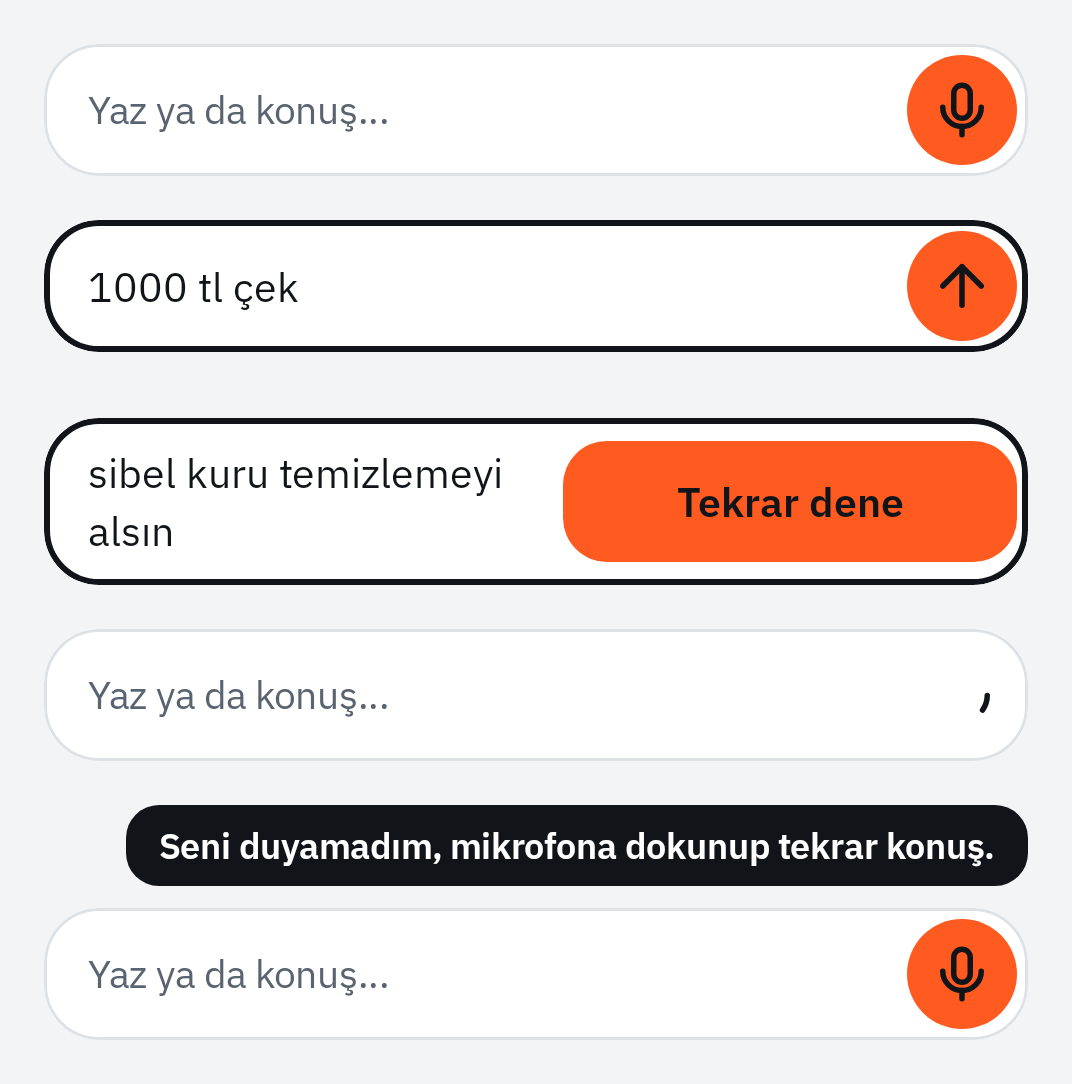
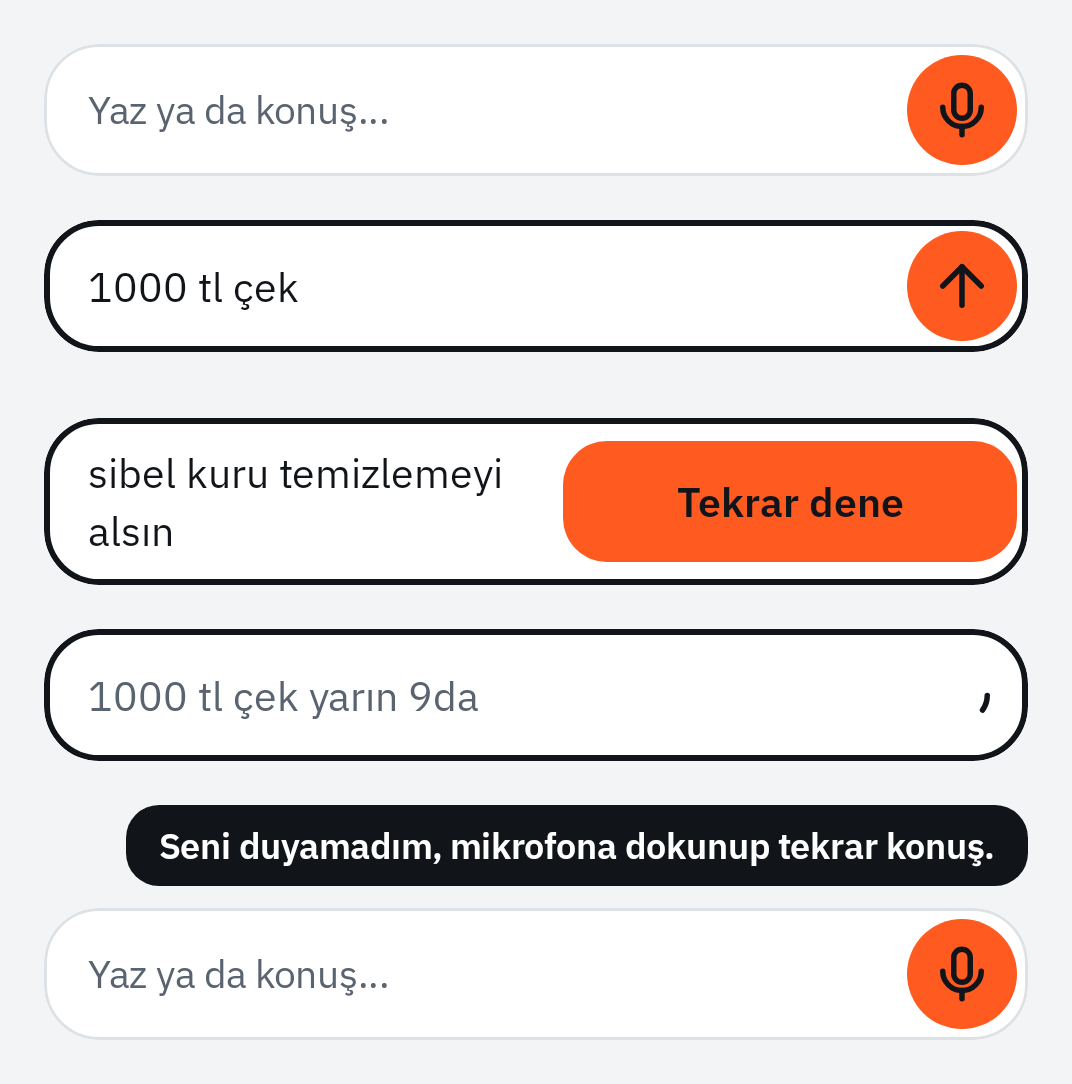
NUD-54 Keep the text in the bar, dimmed, while it is being sent
An empty box with a small spinner looked as if the text was lost, and the
tester sent it again (6 writes for one intent).

Claude-Session: https://claude.ai/code/session_01MpnPveQqLsx472DNRojrYK

Changed region(s): [[0.0308, 0.5784, 0.9543, 0.7002], [0.9543, 0.6089, 0.9851, 0.6697]]

diff --git a/apps/android/app/src/main/kotlin/app/nuddle/ui/components/ComposeBar.kt b/apps/android/app/src/main/kotlin/app/nuddle/ui/components/ComposeBar.kt
@@ -77,7 +77,10 @@ sealed interface ComposeState {
         val text: String,
     ) : ComposeState
 
-    data object Sending : ComposeState
+    /** On its way: [text] stays in the box, dimmed and not editable, so it does not look lost (NUD-54). */
+    data class Sending(
+        val text: String,
+    ) : ComposeState
 
     /** Holding the mic (4h): [heard] is the live transcript. */
     data class Listening(
@@ -93,7 +96,8 @@ private val ComposeState.text: String
         when (this) {
             is ComposeState.Typing -> text
             is ComposeState.Failed -> text
-            ComposeState.Idle, ComposeState.Sending, is ComposeState.Listening -> ""
+            is ComposeState.Sending -> text
+            ComposeState.Idle, is ComposeState.Listening -> ""
         }
 
 /**
@@ -147,8 +151,11 @@ fun ComposeBar(
                 BasicTextField(
                     value = text,
                     onValueChange = onTextChange,
-                    enabled = state != ComposeState.Sending,
-                    textStyle = (if (active) DurtTheme.type.input else DurtTheme.type.inputIdle).copy(color = colors.ink),
+                    enabled = state !is ComposeState.Sending,
+                    textStyle =
+                        (if (active) DurtTheme.type.input else DurtTheme.type.inputIdle).copy(
+                            color = if (state is ComposeState.Sending) colors.textTertiary else colors.ink,
+                        ),
                     cursorBrush = SolidColor(colors.ink),
                     maxLines = dimens.composeMaxLines,
                     modifier =
@@ -256,7 +263,7 @@ private fun RowScope.BarAction(
             )
         }
 
-        ComposeState.Sending -> {
+        is ComposeState.Sending -> {
             Box(Modifier.size(dimens.composeMic), contentAlignment = Alignment.Center) {
                 CircularProgressIndicator(
                     Modifier.size(dimens.spinner),
@@ -391,7 +398,7 @@ private fun ComposeBarPreview() {
                 Modifier.heightIn(min = DurtTheme.dimens.buttonLarge),
             )
             ComposeBar(ComposeState.Failed("sibel kuru temizlemeyi alsın"), {}, {}, {}, {})
-            ComposeBar(ComposeState.Sending, {}, {}, {}, {})
+            ComposeBar(ComposeState.Sending("1000 tl çek yarın 9da"), {}, {}, {}, {})
             ComposeBar(ComposeState.Idle, {}, {}, {}, {}, notice = VoiceNotice.NotHeard)
         }
     }

diff --git a/apps/android/app/src/test/kotlin/app/nuddle/ui/ComposeBarVoiceTest.kt b/apps/android/app/src/test/kotlin/app/nuddle/ui/ComposeBarVoiceTest.kt
@@ -1,6 +1,7 @@
 package app.nuddle.ui
 
 import androidx.compose.ui.test.assertIsDisplayed
+import androidx.compose.ui.test.assertIsNotEnabled
 import androidx.compose.ui.test.junit4.v2.createComposeRule
 import androidx.compose.ui.test.onNodeWithTag
 import androidx.compose.ui.test.onNodeWithText
@@ -17,7 +18,10 @@ import org.robolectric.annotation.GraphicsMode
 import kotlin.test.Test
 import kotlin.test.assertEquals
 
-/** 4h on the compose bar (NUD-48): a tap on the mic dictates, the transcript shows in the box, a tap on stop ends it. */
+/**
+ * The compose bar while sending (NUD-54), and 4h (NUD-48): a tap on the mic dictates, the transcript shows in
+ * the box, a tap on stop ends it.
+ */
 @RunWith(RobolectricTestRunner::class)
 @GraphicsMode(GraphicsMode.Mode.NATIVE)
 @Config(sdk = [36], qualifiers = "w390dp-h844dp-xxhdpi")
@@ -43,6 +47,12 @@ class ComposeBarVoiceTest {
                 )
             }
         }
+    }
+
+    @Test
+    fun `while sending the text stays in the box and cannot be edited (NUD-54)`() {
+        bar(ComposeState.Sending("merhaba"))
+        compose.onNodeWithText("merhaba").assertIsDisplayed().assertIsNotEnabled()
     }
 
     @Test

diff --git a/apps/android/app/src/main/kotlin/app/nuddle/ui/screens/home/HomeViewModel.kt b/apps/android/app/src/main/kotlin/app/nuddle/ui/screens/home/HomeViewModel.kt
@@ -230,14 +230,14 @@ class HomeViewModel
                 when (val current = compose.value) {
                     is ComposeState.Typing -> current.text
                     is ComposeState.Failed -> current.text
-                    ComposeState.Idle, ComposeState.Sending, is ComposeState.Listening -> null
+                    ComposeState.Idle, is ComposeState.Sending, is ComposeState.Listening -> null
                 }?.trim()?.takeIf { it.isNotEmpty() }
 
         fun onComposeSend() {
             val text = sendable ?: return
             reply.value = null
             val key = pendingKey ?: ids.next().also { pendingKey = it }
-            compose.value = ComposeState.Sending
+            compose.value = ComposeState.Sending(text)
             viewModelScope.launch {
                 when (val outcome = tasks.write(text, key)) {
                     is WriteOutcome.Created -> {

diff --git a/docs/ux/components.md b/docs/ux/components.md
@@ -37,7 +37,7 @@ enum class DurtButtonSize(val height: Dp) { Poke(62.dp), Large(56.dp), Medium(52
 ## 3. ComposeBar
 
 ```kotlin
-sealed interface ComposeState { data object Idle; data class Typing(val text: String); data class Failed(val text: String); data object Sending; data class Listening(val heard: String) }
+sealed interface ComposeState { data object Idle; data class Typing(val text: String); data class Failed(val text: String); data class Sending(val text: String); data class Listening(val heard: String) }
 @Composable fun ComposeBar(state: ComposeState, onTextChange: (String) -> Unit, onSend: () -> Unit,
     onVoiceStart: () -> Unit, onVoiceEnd: (cancelled: Boolean) -> Unit, notice: VoiceNotice? = null)
 ```
@@ -45,6 +45,7 @@ sealed interface ComposeState { data object Idle; data class Typing(val text: St
 - Focused: 2 dp `ink` border, radius 20, text 15 sp, grows to at most 4 lines. With text the mic turns into a send arrow (same place and size, 150 ms crossfade).
 - Mic: **tap to dictate** (screen 4h, NUD-48): the transcript is written live into the box, a second tap or silence stops, and the text stays in the box to be fixed and sent with the arrow; nothing is sent by itself. `notice` shows a voice note in a bubble over the mic for 2 s (open-questions #40).
 - Listening: the bar stays a bar: a "Dinliyorum" line above it, the transcript in the box with the word still being heard lighter, and the mic button pulses (`voicePulse`) as the stop button.
+- Sending: the text stays in the box in `textTertiary`, not editable, and a 20 dp spinner takes the button's place. An empty box while sending looked as if the text was lost, and people sent it again (NUD-54).
 - Failed: text is kept, the button becomes "Tekrar dene", an InlineAlert shows above.
 - Sits above the keyboard with `imePadding()`.
 
